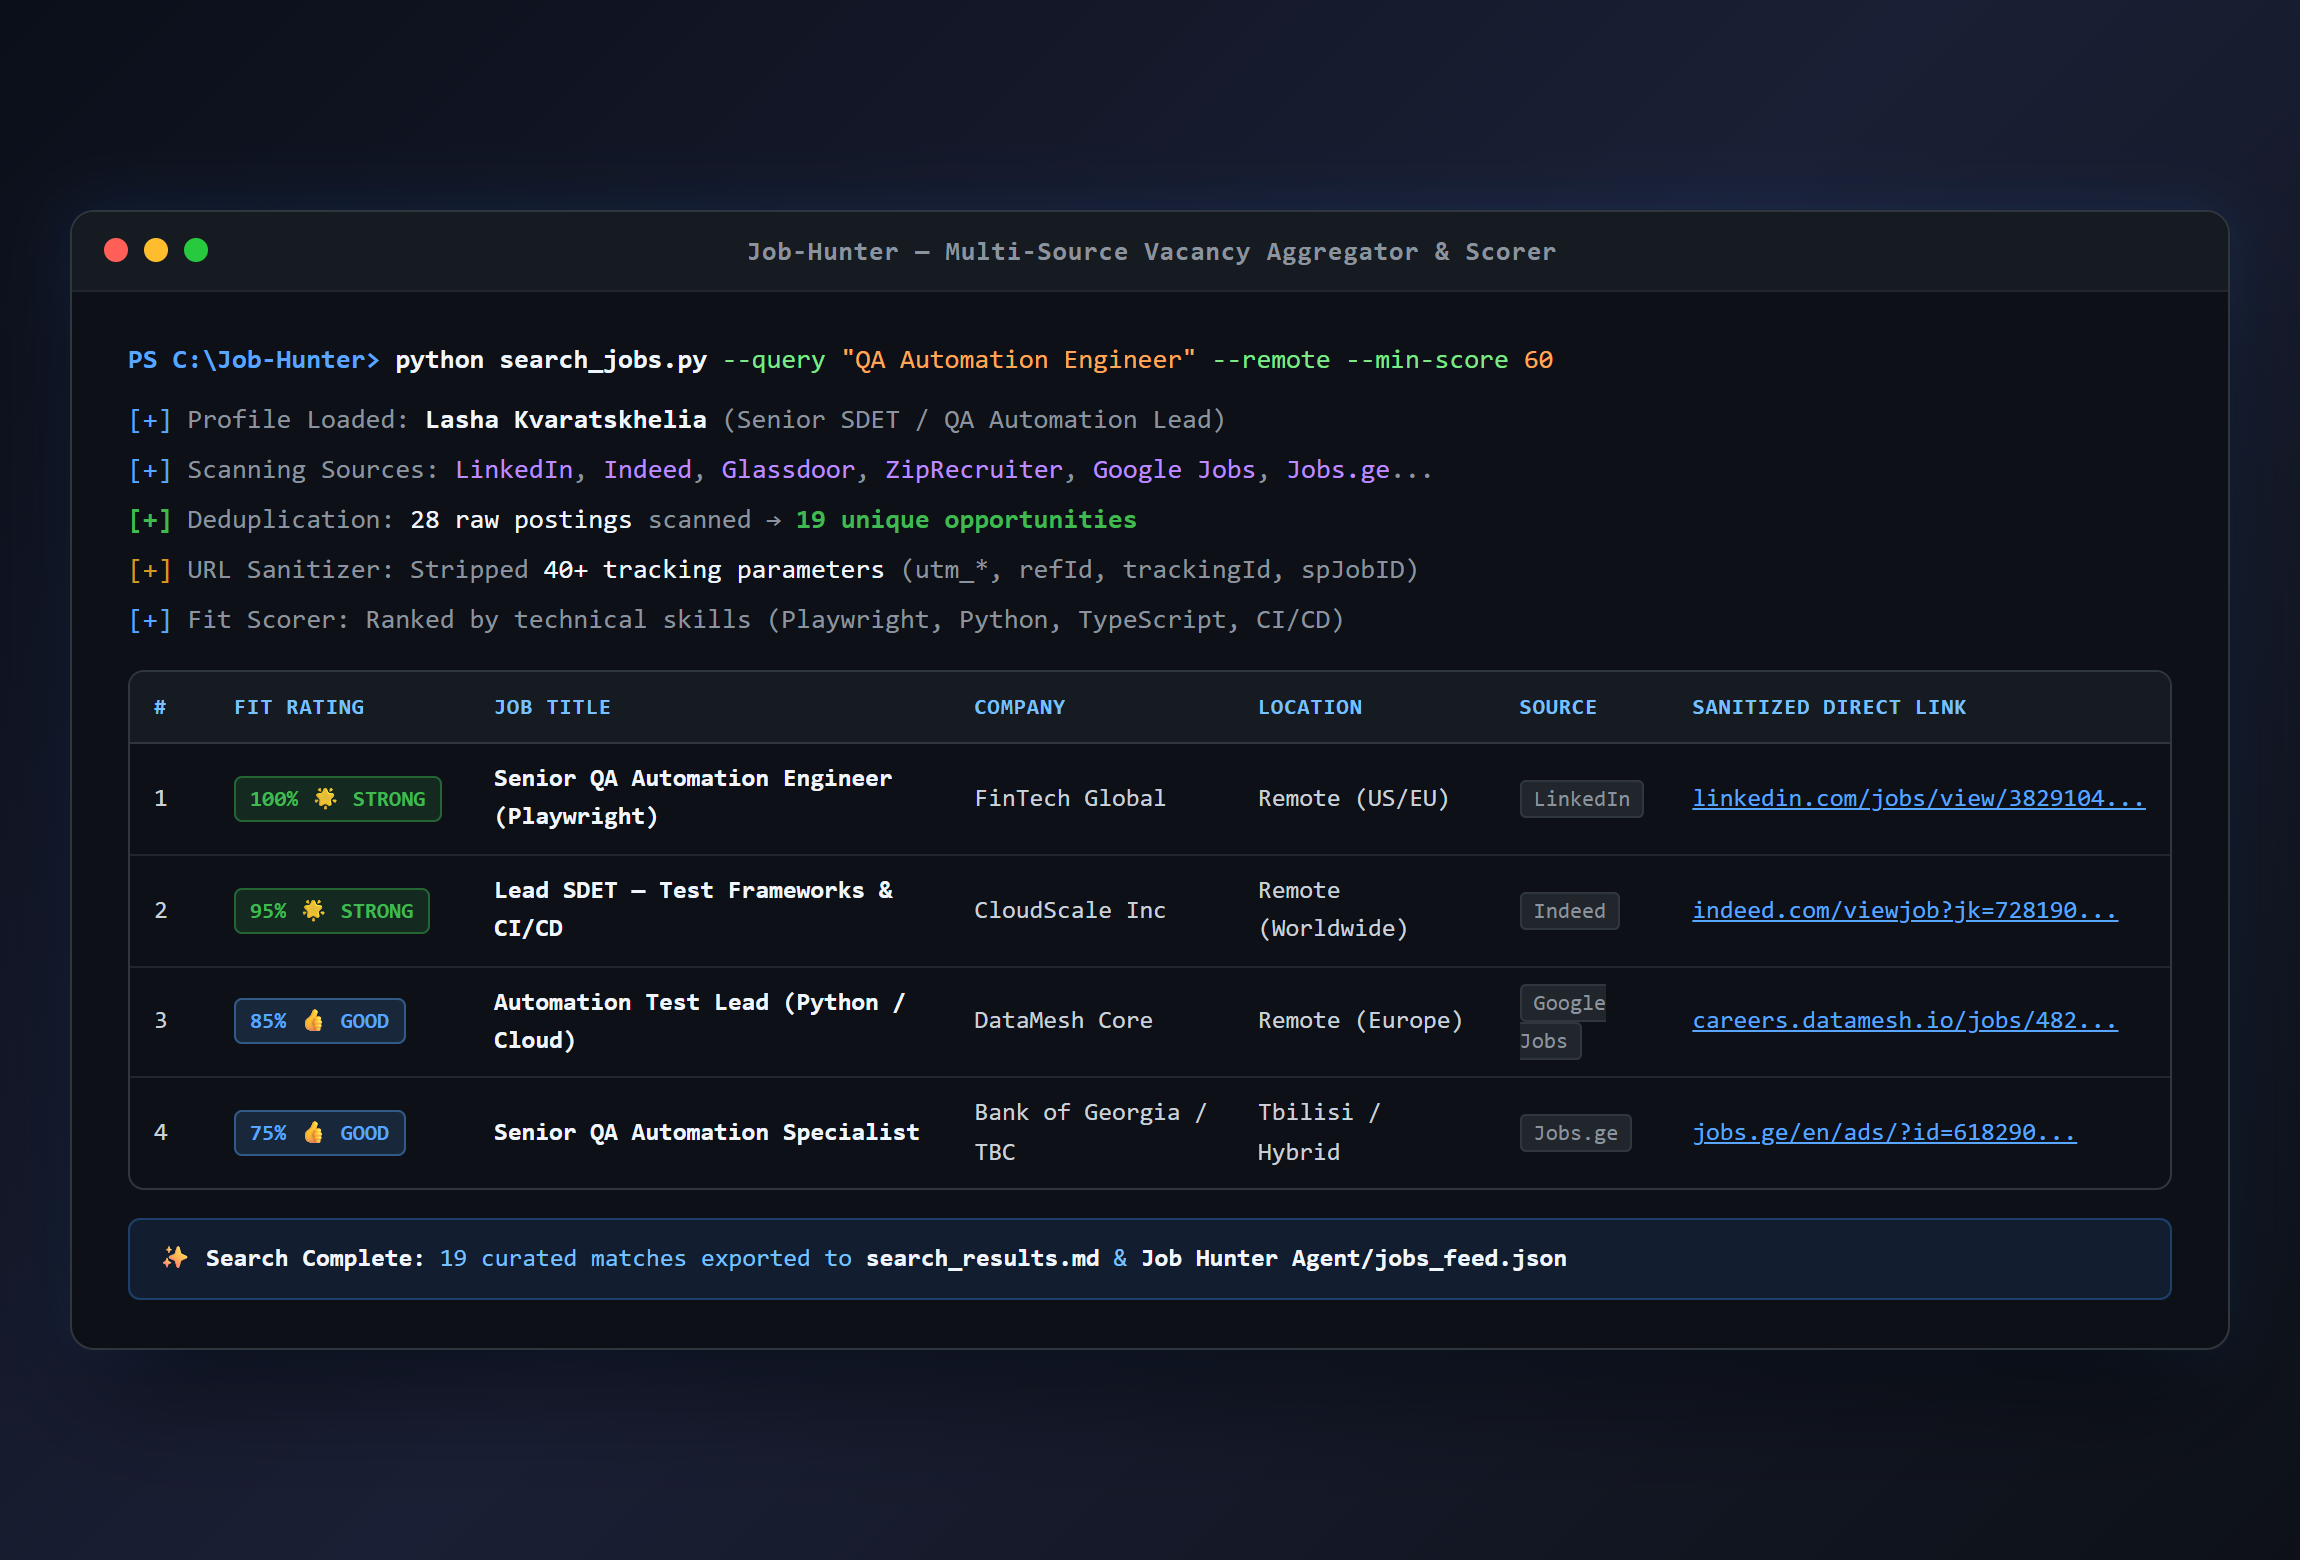
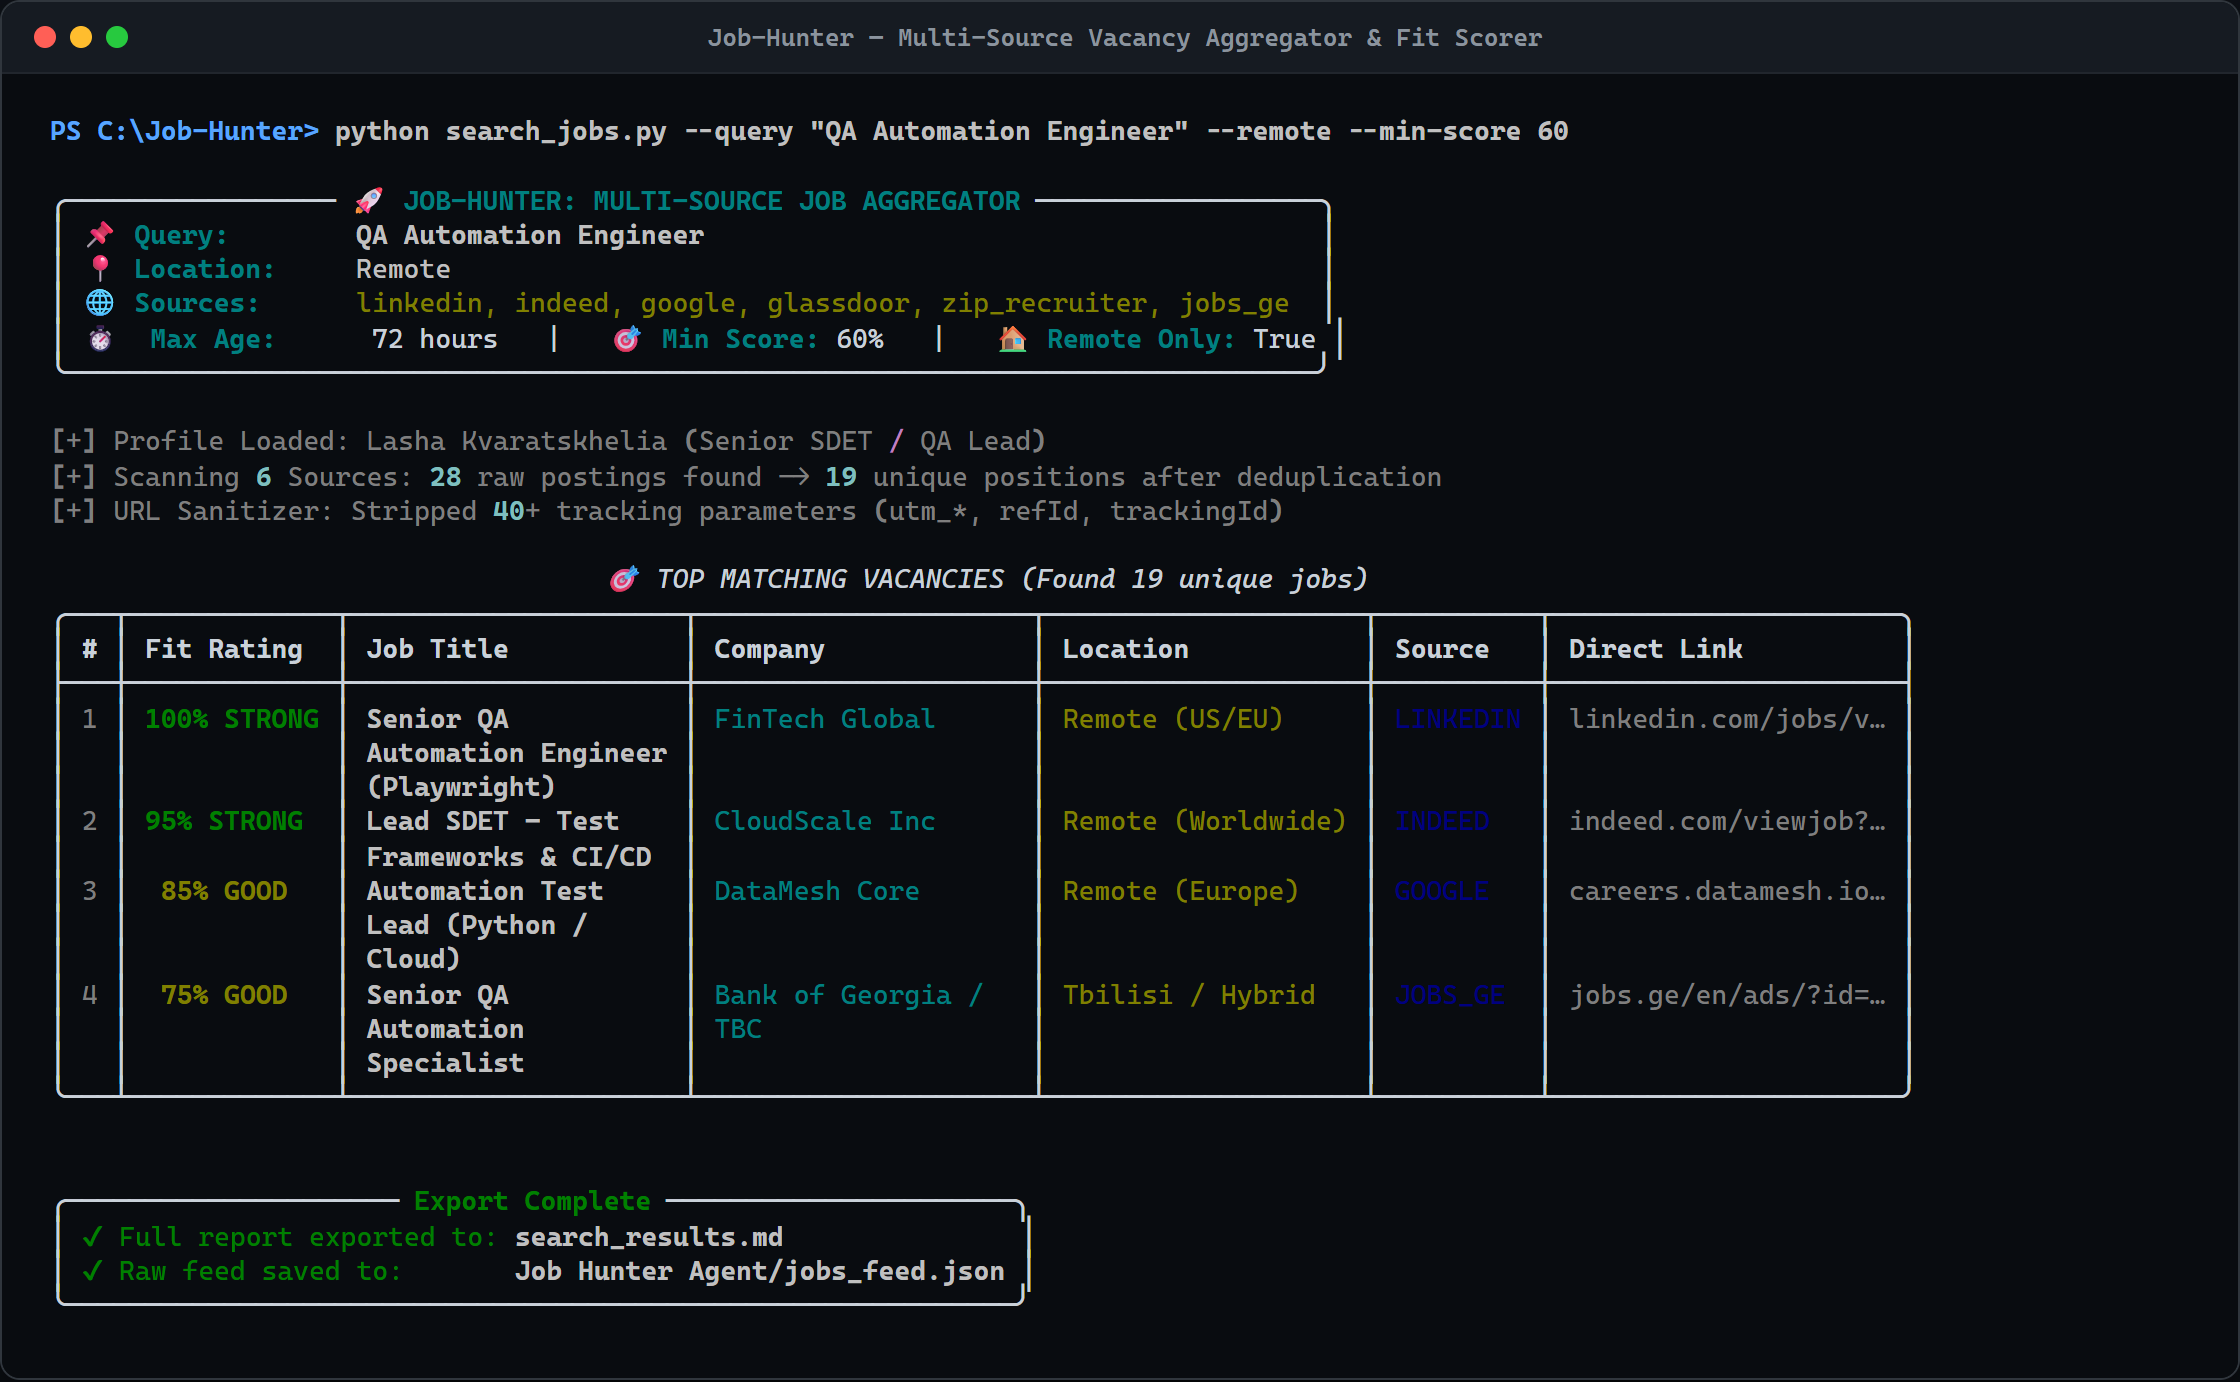
feat(cli): add rich terminal styling to search_jobs and update screenshots with 100% authentic CLI output

Changed region(s): [[0.0, 0.0, 1.0, 1.0], [0.0, 0.0, 0.0625, 0.0311]]

diff --git a/search_jobs.py b/search_jobs.py
@@ -25,6 +25,17 @@ sys.path.insert(0, str(PROJECT_ROOT / "Job Hunter Agent"))
 
 from aggregator.engine import AggregatorEngine
 
+try:
+    from rich.console import Console
+    from rich.panel import Panel
+    from rich.table import Table
+    from rich import box
+    HAS_RICH = True
+    console = Console(force_terminal=True, legacy_windows=False)
+except ImportError:
+    HAS_RICH = False
+    console = None
+
 
 def validate_min_score(val: str) -> int:
     try:
@@ -100,16 +111,27 @@ def main():
     # Determine location: if not specified, use "Remote" for remote searches or "" for on-site
     resolved_location = args.location if args.location is not None else ("Remote" if args.remote else "")
 
-    print("=" * 65)
-    print("🚀 JOB-HUNTER: MULTI-SOURCE JOB AGGREGATOR")
-    print("=" * 65)
-    print(f"📌 Query:        {args.query}")
-    print(f"📍 Location:     {resolved_location or 'All / Any'}")
-    print(f"🌐 Sources:      {', '.join(args.sources)}")
-    print(f"⏱  Max Age:      {args.hours} hours")
-    print(f"🎯 Min Score:    {args.min_score}%")
-    print(f"🏠 Remote Only:  {args.remote}")
-    print("=" * 65 + "\n")
+    if HAS_RICH:
+        banner_body = (
+            f"[bold cyan]📌 Query:[/bold cyan]        [bold white]{args.query}[/bold white]\n"
+            f"[bold cyan]📍 Location:[/bold cyan]     [white]{resolved_location or 'All / Any'}[/white]\n"
+            f"[bold cyan]🌐 Sources:[/bold cyan]      [yellow]{', '.join(args.sources)}[/yellow]\n"
+            f"[bold cyan]⏱  Max Age:[/bold cyan]      {args.hours} hours  |  "
+            f"[bold cyan]🎯 Min Score:[/bold cyan] {args.min_score}%  |  "
+            f"[bold cyan]🏠 Remote Only:[/bold cyan] {args.remote}"
+        )
+        console.print(Panel(banner_body, title="[bold cyan]🚀 JOB-HUNTER: MULTI-SOURCE JOB AGGREGATOR[/bold cyan]", box=box.ROUNDED, expand=False))
+    else:
+        print("=" * 65)
+        print("🚀 JOB-HUNTER: MULTI-SOURCE JOB AGGREGATOR")
+        print("=" * 65)
+        print(f"📌 Query:        {args.query}")
+        print(f"📍 Location:     {resolved_location or 'All / Any'}")
+        print(f"🌐 Sources:      {', '.join(args.sources)}")
+        print(f"⏱  Max Age:      {args.hours} hours")
+        print(f"🎯 Min Score:    {args.min_score}%")
+        print(f"🏠 Remote Only:  {args.remote}")
+        print("=" * 65 + "\n")
 
     engine = AggregatorEngine(output_dir=PROJECT_ROOT / "Job Hunter Agent")
     jobs = engine.search(
@@ -124,23 +146,54 @@ def main():
         include_jobs_ge="jobs_ge" in args.sources
     )
 
-
-
     if not jobs:
-        print("\n❌ No jobs found matching the criteria.")
+        if HAS_RICH:
+            console.print("\n[bold red]❌ No jobs found matching the criteria.[/bold red]")
+        else:
+            print("\n❌ No jobs found matching the criteria.")
     else:
-        print("\n" + "=" * 65)
-        print(f"🎯 TOP MATCHING VACANCIES (Found {len(jobs)} unique jobs)")
-        print("=" * 65)
+        if HAS_RICH:
+            table = Table(title=f"🎯 TOP MATCHING VACANCIES (Found {len(jobs)} unique jobs)", box=box.ROUNDED)
+            table.add_column("#", style="dim", justify="right", no_wrap=True)
+            table.add_column("Fit Rating", justify="center", no_wrap=True)
+            table.add_column("Job Title", style="bold white")
+            table.add_column("Company", style="cyan")
+            table.add_column("Location", style="yellow")
+            table.add_column("Source", style="blue")
+            table.add_column("URL", style="underline dim")
 
-        for idx, j in enumerate(jobs[:15], 1):
-            print(f"\n[{idx}] {j.fit_grade} ({j.fit_score}%) — {j.title}")
-            print(f"    🏢 Company:  {j.company}")
-            print(f"    📍 Location: {j.location} | Source: {j.source.upper()}")
-            print(f"    💰 Salary:   {j.salary_str}")
-            if j.fit_reasons:
-                print(f"    💡 Highlights: {'; '.join(j.fit_reasons[:3])}")
-            print(f"    🔗 URL:      {j.job_url}")
+            for idx, j in enumerate(jobs[:15], 1):
+                if j.fit_score >= 80:
+                    score_markup = f"[bold green]{j.fit_score}% {j.fit_grade}[/bold green]"
+                elif j.fit_score >= 60:
+                    score_markup = f"[bold yellow]{j.fit_score}% {j.fit_grade}[/bold yellow]"
+                else:
+                    score_markup = f"[dim]{j.fit_score}% {j.fit_grade}[/dim]"
+
+                short_url = j.job_url if len(j.job_url) <= 38 else j.job_url[:35] + "..."
+                table.add_row(
+                    str(idx),
+                    score_markup,
+                    j.title,
+                    j.company,
+                    j.location or "Remote",
+                    j.source.upper(),
+                    short_url
+                )
+            console.print("\n", table)
+        else:
+            print("\n" + "=" * 65)
+            print(f"🎯 TOP MATCHING VACANCIES (Found {len(jobs)} unique jobs)")
+            print("=" * 65)
+
+            for idx, j in enumerate(jobs[:15], 1):
+                print(f"\n[{idx}] {j.fit_grade} ({j.fit_score}%) — {j.title}")
+                print(f"    🏢 Company:  {j.company}")
+                print(f"    📍 Location: {j.location} | Source: {j.source.upper()}")
+                print(f"    💰 Salary:   {j.salary_str}")
+                if j.fit_reasons:
+                    print(f"    💡 Highlights: {'; '.join(j.fit_reasons[:3])}")
+                print(f"    🔗 URL:      {j.job_url}")
 
     # Export to markdown table (always written so zero-result searches update stale reports)
     md_content = engine.format_markdown_table(jobs)
@@ -150,16 +203,22 @@ def main():
             f.write(f"# Vacancy Search Results: {args.query}\n\n")
             f.write(f"*Location: {resolved_location or 'All / Any'} | Found: {len(jobs)} jobs*\n\n")
             f.write(md_content)
-        print("\n" + "=" * 65)
-        print(f"✅ Full report exported to: {md_path.name}")
+        if HAS_RICH:
+            summary_text = f"[green]✔ Full report exported to:[/green] [bold white]{md_path.name}[/bold white]\n"
+            if getattr(engine, "last_save_success", False):
+                summary_text += "[green]✔ Raw feed saved to:[/green]       [bold white]Job Hunter Agent/jobs_feed.json[/bold white]"
+            console.print("\n", Panel(summary_text, title="[bold green]Export Complete[/bold green]", box=box.ROUNDED, expand=False))
+        else:
+            print("\n" + "=" * 65)
+            print(f"✅ Full report exported to: {md_path.name}")
+            if getattr(engine, "last_save_success", False):
+                print(f"✅ Raw feed saved to:       Job Hunter Agent/jobs_feed.json")
+            print("=" * 65)
     except Exception as e:
-        print(f"\n⚠ Could not export markdown report: {e}")
-
-    if getattr(engine, "last_save_success", False):
-        print(f"✅ Raw feed saved to:       Job Hunter Agent/jobs_feed.json")
-    else:
-        print(f"⚠ Note: Raw feed was not saved for this run.")
-    print("=" * 65)
+        if HAS_RICH:
+            console.print(f"\n[bold red]⚠ Could not export markdown report: {e}[/bold red]")
+        else:
+            print(f"\n⚠ Could not export markdown report: {e}")
 
 
 if __name__ == "__main__":

diff --git a/Linkedin Agent/run.py b/Linkedin Agent/run.py
@@ -55,14 +55,17 @@ def show_banner(profile: Optional[CandidateProfile] = None):
         candidate_label = candidate_label[:42] + "..."
     if HAS_RICH:
         from rich.markup import escape
+        from rich import box
         safe_label = escape(candidate_label)
-        banner = f"""
-[bold cyan]╔══════════════════════════════════════════════════════════════════════╗
-║                    💼 LINKEDIN JOB-SEEKER AGENT                     ║
-║              Candidate: [bold yellow]{safe_label:^45}[/bold yellow] ║
-╚══════════════════════════════════════════════════════════════════════╝[/bold cyan]
-        """
-        console.print(banner)
+        console.print(
+            Panel(
+                f"[bold cyan]💼 LINKEDIN JOB-SEEKER AGENT[/bold cyan]\n[bold white]Candidate:[/bold white] [bold yellow]{safe_label}[/bold yellow]",
+                box=box.DOUBLE,
+                style="cyan",
+                expand=False,
+                padding=(0, 6)
+            )
+        )
     else:
         print("=" * 60)
         print(f"LinkedIn Job-Seeker Agent - {candidate_label}")
